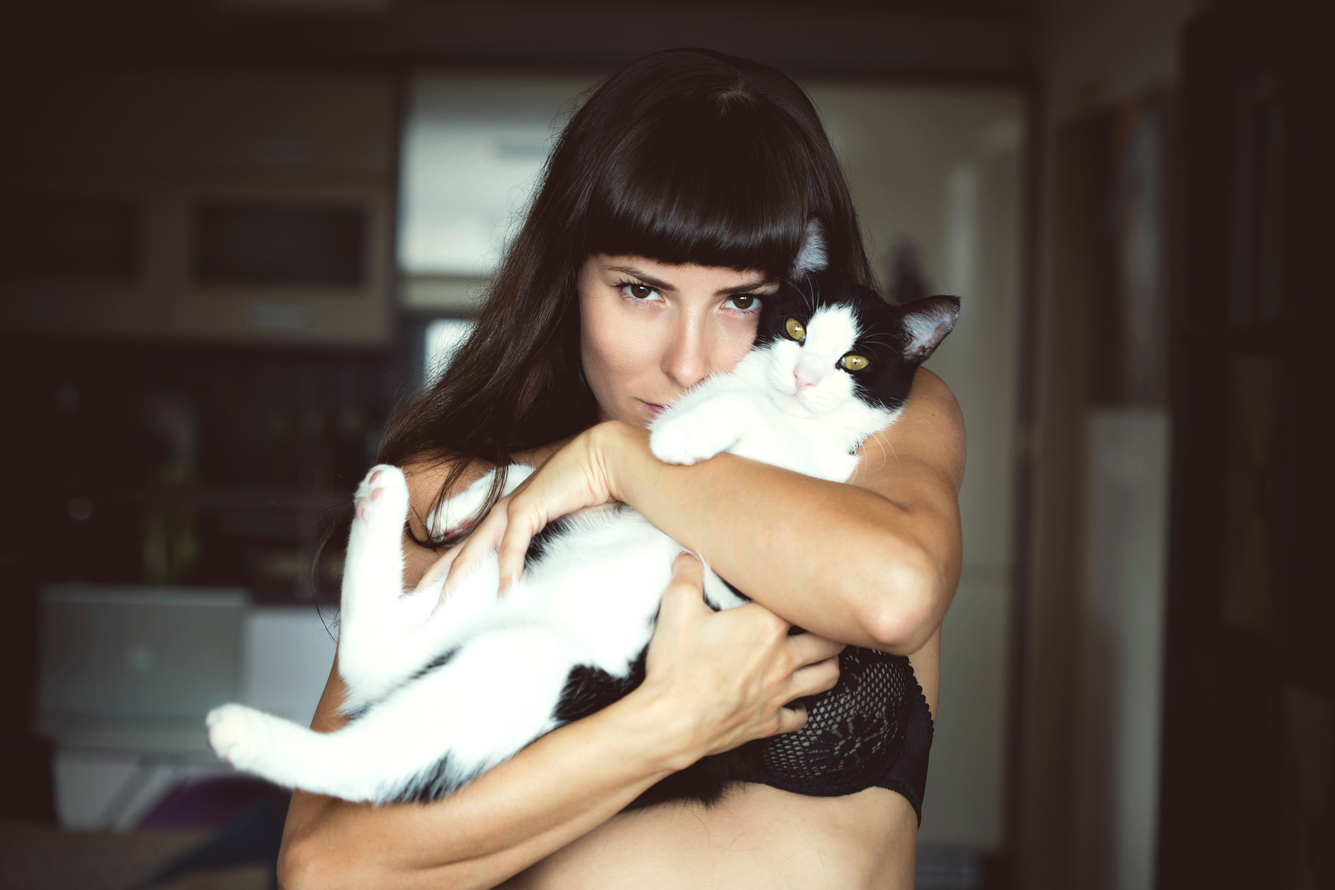
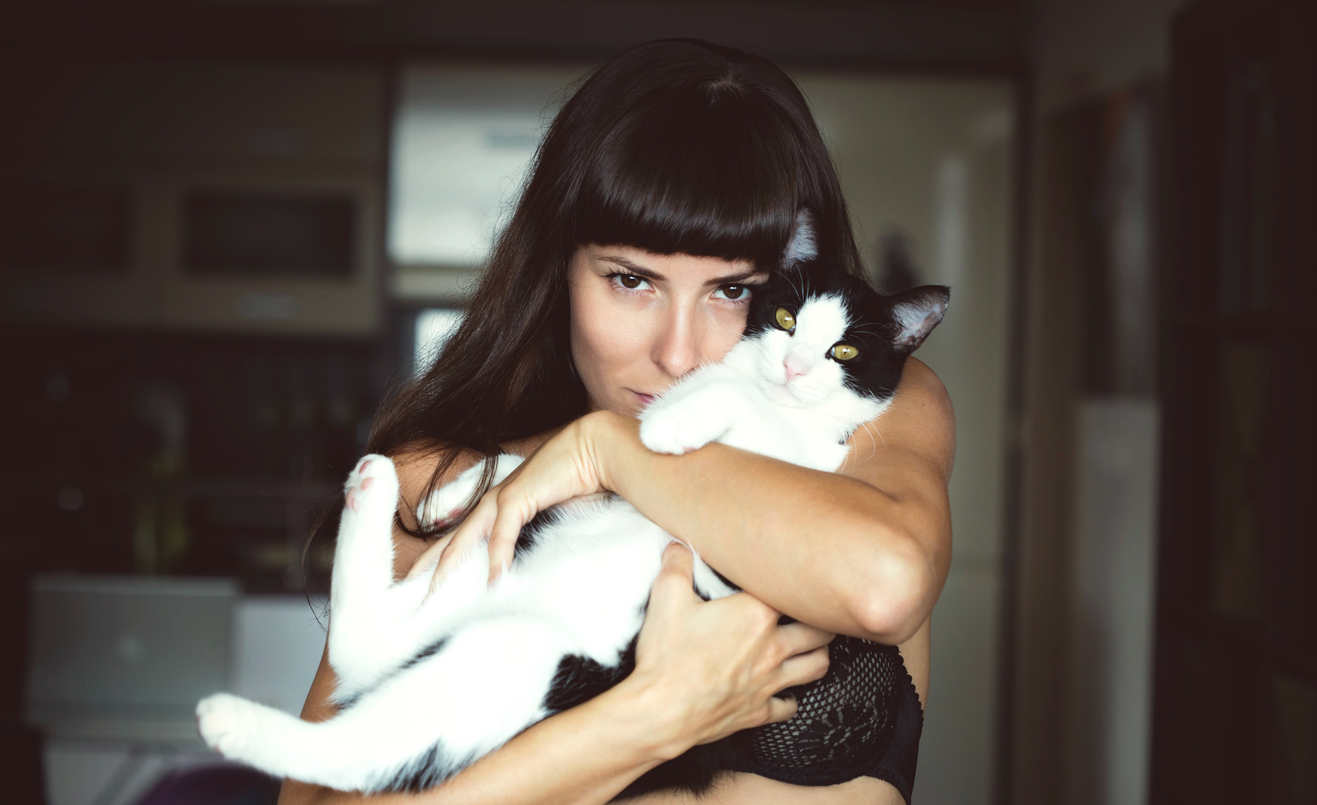
homepage styled

diff --git a/index.html b/index.html
@@ -1,5 +1,5 @@
 <!DOCTYPE html>
-<html ng-app="pofApp">
+<html class="full" ng-app="pofApp" style="width: 100%">
 
 <head>
   <meta charset="utf-8">
@@ -9,31 +9,100 @@
   <title>Plenty of Felines</title>
   <link rel="stylesheet" href="https://maxcdn.bootstrapcdn.com/bootstrap/3.3.6/css/bootstrap.min.css">
   <link rel="stylesheet" href="https://maxcdn.bootstrapcdn.com/font-awesome/4.4.0/css/font-awesome.min.css">
-  <!-- FAVICON -->
-  <!-- <link rel="shortcut icon" href=""> -->
-  <!-- END FAVICON -->
   <link rel="stylesheet" href="./css/main.css">
   
-  <link href='https://fonts.googleapis.com/css?family=Englebert' rel='stylesheet' type='text/css'>
+  <link href='https://fonts.googleapis.com/css?family=Pacifico' rel='stylesheet' type='text/css'>
   <script src="https://ajax.googleapis.com/ajax/libs/angularjs/1.5.0/angular.min.js"></script>
   <script src="https://ajax.googleapis.com/ajax/libs/angularjs/1.4.3/angular-route.js"></script>
 </head>
 
 <body class="container-fluid" ng-controller="MainController as MC">
+   
+   <!-- Navigation -->
+  <nav class="navbar navbar-inverse navbar-fixed-bottom" role="navigation">
+    <div class="container">
+        <!-- Brand and toggle get grouped for better mobile display -->
+        <div class="navbar-header">
+            <button type="button" class="navbar-toggle" data-toggle="collapse" data-target="#bs-example-navbar-collapse-1">
+                <span class="sr-only">Toggle navigation</span>
+                <span class="icon-bar"></span>
+                <span class="icon-bar"></span>
+                <span class="icon-bar"></span>
+            </button>
+            <!-- <a class="navbar-brand" href="#"><p class="title-subtext">Find Your Purrfect Feline Friend</a></p> -->
+        </div>
+        <!-- Collect the nav links, forms, and other content for toggling -->
+        <div class="collapse navbar-collapse" id="bs-example-navbar-collapse-1">
+            <p class="title-subtext" style="text-align: center;">Find Your Purrfect Feline Friend<a class="btn btn-primary btn-md" data-toggle="modal" data-target="#myModal">Enter</a></p>
+
+            <!-- <ul class="nav navbar-nav">
+
+                <li>
+                    <a href="#">About</a>
+                </li>
+                <li>
+                    <a href="#">Services</a>
+                </li>
+                <li>
+                    <a href="#">Contact</a>
+                </li>
+            </ul> -->
+        </div>
+        <!-- /.navbar-collapse -->
+    </div>
+    <!-- /.container -->
+</nav>
+
+<!-- Page Content -->
+<div class="container">
+    <div class="row">
+        <div class="col-md-6 col-sm-12">
+             <h1 class="title-index" style="text-align: center;">Plenty of Felines</h1>
+        </div>
+    </div>
+
+    <!-- /.row -->
+</div>
+
+<!-- ==========modal under here -->
+    <div class="modal fade" id="myModal">
+      <div class="modal-dialog">
+        <div class="modal-content">
+
+          <div class="modal-header">
+            <button type="button" class="close" data-dismiss="modal"  aria-label="Close" aria-hidden="true"><span aria-hidden="true"></span></button>
+            <p><h4 class="modal-title">Login</h4><br><input type="text" placeholder="Username"><input type="text" placeholder="password"> <button type="button" class="btn btn-default" data-dismiss="modal">Login</button><img class="homecat" src="img/blackcat.png"></p>
+            <p>Not a User? <a href="#">Register here to save your matches!</a></p>
+
+          </div>
+
+          <div class="modal-body">
+            <p><h4>Continue as a Guest  <button type="button" class="btn btn-default" data-dismiss="modal">Enter</button></h4></p>
+        <!--   <div class="modal-footer">
+            <button type="button" class="btn btn-default" data-dismiss="modal">Submit</button>
+          </div> -->
+          </div>
+        </div>
+      </div>
+
+    </div>
+  <!-- /.container -->
+ 
+
 
  <!--  <div ng-view></div> -->
- <h1>POF</h1>
+
 
 
   <script src="https://ajax.googleapis.com/ajax/libs/jquery/1.11.3/jquery.min.js"></script>
   <script src="https://maxcdn.bootstrapcdn.com/bootstrap/3.3.6/js/bootstrap.min.js"></script>
-  <script src="./js/app.js"></script>
-  <script src="./js/controllers.js"></script>
+<!--   <script src="./js/app.js"></script> -->
+  <!-- <script src="./js/controllers.js"></script>
   <script src="./js/directives.js"></script>
   <script src="./js/services.js"></script>
   <script src="./js/factories.js"></script>
   <script src="./js/filters.js"></script>
-  <script src="./js/routes.js"></script>
+  <script src="./js/routes.js"></script> -->
 </body>
 
 </html>

diff --git a/css/main.css b/css/main.css
@@ -1,0 +1,48 @@
+body {
+  margin-top: 50px;
+  margin-bottom: 50px;
+  background: none;
+  opacity: 0.8;
+}
+
+.full {
+  background: url('../img/woman-cat.jpg') no-repeat center center fixed; 
+  -webkit-background-size: cover;
+  -moz-background-size: cover;
+  -o-background-size: cover;
+  background-size: cover;
+}
+
+
+a.btn.btn-primary.btn-md{
+  height: 40px;
+  width: 75px;
+  margin-left: 30px;
+  margin-bottom: 10px;
+  background-color: #E7B223;
+}
+
+.title-index {
+  display: block;
+  margin: 0 auto;
+  font-family: 'Pacifico', cursive;
+  font-size: 5em;
+  color: #DAF7A6;
+  position: relative;
+}
+
+.title-subtext {
+  font-family: 'Pacifico', cursive;
+  color: #E7B223;
+  font-size: 2.5em;
+  margin-top: 8px;
+}
+
+.title-subtext a{
+  color: #E7B223;
+  text-decoration: none;
+}
+
+.homecat {
+  margin-left: 40px;
+}
